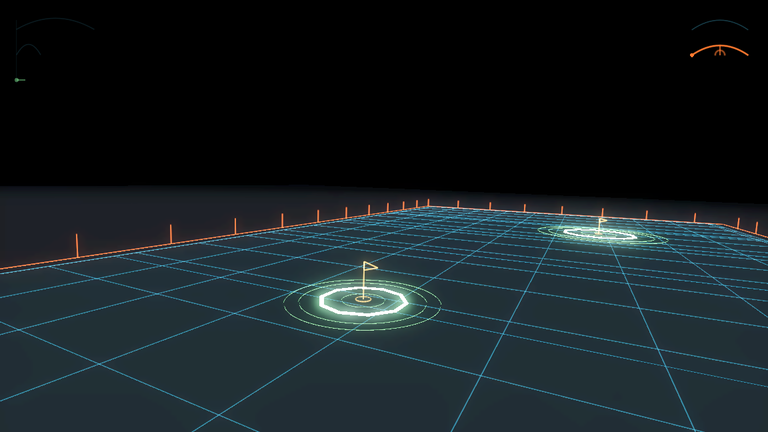
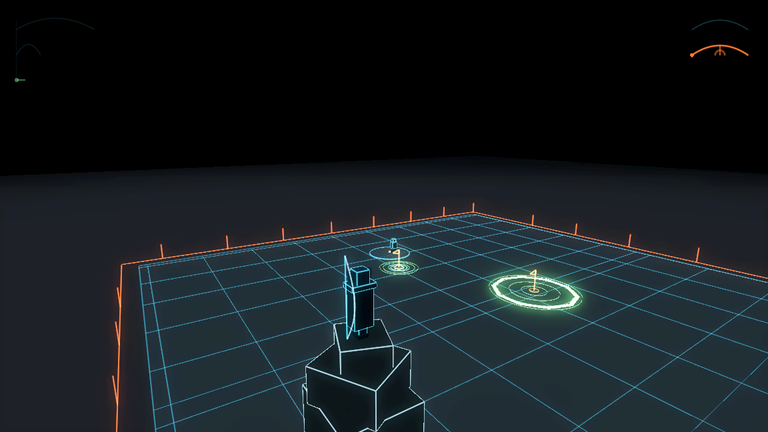
Surface the pictures in the docs, and hold the camera still for them
A gallery on the walkthrough's index, generated from the registry; the
first frame on the README; and a check that every picture a document
embeds is one the registry names, seen failing before it was trusted.
Regenerating twice took the menu pictures from two different places --
the range's camera eases toward its framing every frame -- so a recording
now stops the range's frames and steps one by hand until the ease clamps.
Captions say what is in frame.

diff --git a/walkthrough/09-the-range.md b/walkthrough/09-the-range.md
@@ -22,65 +22,65 @@ exactly that shape.
 - [Changing club is announced once](../tests/holes/test_practice_range.gd#L93)
 - [A club index out of range is clamped rather than crashing](../tests/holes/test_practice_range.gd#L107)
 - [The range opens with the club its first pin wants](../tests/holes/test_practice_range.gd#L115)
-- [Everything the range asks for is inside the boundary](../tests/holes/test_practice_range.gd#L123)
-- [A full driver stays on the range](../tests/holes/test_practice_range.gd#L143)
-- [The lie detector agrees with the range it is built from](../tests/holes/test_practice_range.gd#L158)
-- [The archer watches the range when it is defended](../tests/holes/test_practice_range.gd#L168)
-- [It can be played without one](../tests/holes/test_practice_range.gd#L176)
-- [The camera is placed before anything can look through it](../tests/holes/test_practice_range.gd#L180)
-- [A defended range is a different range](../tests/holes/test_practice_range.gd#L190)
-- [The camera does not whip round when the arrow reverses the ball](../tests/holes/test_practice_range.gd#L211)
-- [The camera turns rather than cuts when the ball changes line](../tests/holes/test_practice_range.gd#L232)
-- [A defender is blended into frame and not cut to](../tests/holes/test_practice_range.gd#L247)
-- [The defender framing is capped however far away it is](../tests/holes/test_practice_range.gd#L268)
-- [The first run has exactly one defender and it is on the rock](../tests/holes/test_practice_range.gd#L309)
-- [The contender can be stood up and taken away](../tests/holes/test_practice_range.gd#L324)
-- [The first run defends with the archer on the rock](../tests/holes/test_practice_range.gd#L337)
-- [Taking the bow leaves the attract screen](../tests/holes/test_practice_range.gd#L351)
-- [A range told to open on defence does so](../tests/holes/test_practice_range.gd#L364)
-- [A range left to its default opens as the golfer](../tests/holes/test_practice_range.gd#L378)
-- [The contender is held in preference when there is one](../tests/holes/test_practice_range.gd#L387)
-- [A range with no defenders offers no side to switch to](../tests/holes/test_practice_range.gd#L394)
-- [A held guard stops guarding by itself](../tests/holes/test_practice_range.gd#L403)
-- [The contender stands at twice the distance to the pin](../tests/holes/test_practice_range.gd#L419)
-- [A close putt is the players to lose](../tests/holes/test_practice_range.gd#L435)
-- [The contender never stands outside the fence](../tests/holes/test_practice_range.gd#L452)
-- [The contender cannot touch a putt](../tests/holes/test_practice_range.gd#L468)
-- [The ball is held for the backswing](../tests/holes/test_practice_range.gd#L480)
-- [The defence is the same gesture as the stroke](../tests/holes/test_practice_range.gd#L498)
-- [Letting go looses an arrow that has to travel](../tests/holes/test_practice_range.gd#L515)
-- [One arrow per stroke](../tests/holes/test_practice_range.gd#L532)
-- [An arrow that hits nothing is simply gone](../tests/holes/test_practice_range.gd#L542)
-- [The camera stands behind the archer when defending](../tests/holes/test_practice_range.gd#L556)
-- [A hand played defender is never told it was unlucky](../tests/holes/test_practice_range.gd#L577)
-- [Holding the archer stops it playing itself](../tests/holes/test_practice_range.gd#L592)
-- [Switching sides changes what the drag means](../tests/holes/test_practice_range.gd#L605)
-- [A good lead actually stops the ball](../tests/holes/test_practice_range.gd#L678)
-- [Aiming at where the ball is misses it](../tests/holes/test_practice_range.gd#L695)
-- [A harder draw needs less lead](../tests/holes/test_practice_range.gd#L712)
-- [The pins come up in the order of pi in ternary](../tests/holes/test_practice_range.gd#L746)
-- [Every digit is a pin](../tests/holes/test_practice_range.gd#L761)
-- [The range never ends](../tests/holes/test_practice_range.gd#L772)
-- [A made pin is the next line of play](../tests/holes/test_practice_range.gd#L797)
-- [An idle player gets the tour](../tests/holes/test_practice_range.gd#L818)
-- [The tour keeps moving while the player is idle](../tests/holes/test_practice_range.gd#L846)
-- [The tour never jumps](../tests/holes/test_practice_range.gd#L856)
-- [The tour turns from the view it leaves](../tests/holes/test_practice_range.gd#L893)
-- [A player holding the camera is never idle](../tests/holes/test_practice_range.gd#L905)
-- [A new pin resets the idle clock as a touch would not](../tests/holes/test_practice_range.gd#L917)
-- [Reaching for a club is a touch](../tests/holes/test_practice_range.gd#L929)
-- [The defend view is seven degrees right and pulled back](../tests/holes/test_practice_range.gd#L939)
-- [The orbit swings around the player and not the line](../tests/holes/test_practice_range.gd#L960)
-- [A round the game played alone is not written](../tests/holes/test_practice_range.gd#L984)
-- [A round is a file of its own strokes and the list starts again](../tests/holes/test_practice_range.gd#L999)
+- [Everything the range asks for is inside the boundary](../tests/holes/test_practice_range.gd#L124)
+- [A full driver stays on the range](../tests/holes/test_practice_range.gd#L144)
+- [The lie detector agrees with the range it is built from](../tests/holes/test_practice_range.gd#L159)
+- [The archer watches the range when it is defended](../tests/holes/test_practice_range.gd#L169)
+- [It can be played without one](../tests/holes/test_practice_range.gd#L177)
+- [The camera is placed before anything can look through it](../tests/holes/test_practice_range.gd#L181)
+- [A defended range is a different range](../tests/holes/test_practice_range.gd#L191)
+- [The camera does not whip round when the arrow reverses the ball](../tests/holes/test_practice_range.gd#L212)
+- [The camera turns rather than cuts when the ball changes line](../tests/holes/test_practice_range.gd#L233)
+- [A defender is blended into frame and not cut to](../tests/holes/test_practice_range.gd#L248)
+- [The defender framing is capped however far away it is](../tests/holes/test_practice_range.gd#L269)
+- [The first run has exactly one defender and it is on the rock](../tests/holes/test_practice_range.gd#L310)
+- [The contender can be stood up and taken away](../tests/holes/test_practice_range.gd#L325)
+- [The first run defends with the archer on the rock](../tests/holes/test_practice_range.gd#L338)
+- [Taking the bow leaves the attract screen](../tests/holes/test_practice_range.gd#L352)
+- [A range told to open on defence does so](../tests/holes/test_practice_range.gd#L365)
+- [A range left to its default opens as the golfer](../tests/holes/test_practice_range.gd#L379)
+- [The contender is held in preference when there is one](../tests/holes/test_practice_range.gd#L388)
+- [A range with no defenders offers no side to switch to](../tests/holes/test_practice_range.gd#L395)
+- [A held guard stops guarding by itself](../tests/holes/test_practice_range.gd#L404)
+- [The contender stands at twice the distance to the pin](../tests/holes/test_practice_range.gd#L420)
+- [A close putt is the players to lose](../tests/holes/test_practice_range.gd#L436)
+- [The contender never stands outside the fence](../tests/holes/test_practice_range.gd#L453)
+- [The contender cannot touch a putt](../tests/holes/test_practice_range.gd#L469)
+- [The ball is held for the backswing](../tests/holes/test_practice_range.gd#L481)
+- [The defence is the same gesture as the stroke](../tests/holes/test_practice_range.gd#L499)
+- [Letting go looses an arrow that has to travel](../tests/holes/test_practice_range.gd#L516)
+- [One arrow per stroke](../tests/holes/test_practice_range.gd#L533)
+- [An arrow that hits nothing is simply gone](../tests/holes/test_practice_range.gd#L543)
+- [The camera stands behind the archer when defending](../tests/holes/test_practice_range.gd#L557)
+- [A hand played defender is never told it was unlucky](../tests/holes/test_practice_range.gd#L578)
+- [Holding the archer stops it playing itself](../tests/holes/test_practice_range.gd#L593)
+- [Switching sides changes what the drag means](../tests/holes/test_practice_range.gd#L606)
+- [A good lead actually stops the ball](../tests/holes/test_practice_range.gd#L679)
+- [Aiming at where the ball is misses it](../tests/holes/test_practice_range.gd#L696)
+- [A harder draw needs less lead](../tests/holes/test_practice_range.gd#L713)
+- [The pins come up in the order of pi in ternary](../tests/holes/test_practice_range.gd#L747)
+- [Every digit is a pin](../tests/holes/test_practice_range.gd#L762)
+- [The range never ends](../tests/holes/test_practice_range.gd#L773)
+- [A made pin is the next line of play](../tests/holes/test_practice_range.gd#L798)
+- [An idle player gets the tour](../tests/holes/test_practice_range.gd#L819)
+- [The tour keeps moving while the player is idle](../tests/holes/test_practice_range.gd#L847)
+- [The tour never jumps](../tests/holes/test_practice_range.gd#L857)
+- [The tour turns from the view it leaves](../tests/holes/test_practice_range.gd#L894)
+- [A player holding the camera is never idle](../tests/holes/test_practice_range.gd#L906)
+- [A new pin resets the idle clock as a touch would not](../tests/holes/test_practice_range.gd#L918)
+- [Reaching for a club is a touch](../tests/holes/test_practice_range.gd#L930)
+- [The defend view is seven degrees right and pulled back](../tests/holes/test_practice_range.gd#L940)
+- [The orbit swings around the player and not the line](../tests/holes/test_practice_range.gd#L961)
+- [A round the game played alone is not written](../tests/holes/test_practice_range.gd#L985)
+- [A round is a file of its own strokes and the list starts again](../tests/holes/test_practice_range.gd#L1000)
 
 ## As recorded
 
 *Taken by the tests above, from the scene they asserted against, on the last run with a display. Recorded, never compared (ADR-031).*
 
-![The range on its own, as the suite instantiates it: three pins, the mat, the archer's rock.](shots/the-range/the-range.png)
+![The range on its own, as the suite instantiates it: the golfer at the ball on the mat, three pins, and the archer on the tower.](shots/the-range/the-range.png)
 
-*The range on its own, as the suite instantiates it: three pins, the mat, the archer's rock.*
+*The range on its own, as the suite instantiates it: the golfer at the ball on the mat, three pins, and the archer on the tower.*
 
 ---
 

diff --git a/walkthrough/17-how-this-walkthrough-is-made.md b/walkthrough/17-how-this-walkthrough-is-made.md
@@ -27,8 +27,9 @@ What it writes, every run, from `registry.gd`:
 What it checks: every suite under `tests/` has a page and every page has a
 suite; every picture the registry declares was recorded and every picture
 recorded is declared; every command the hand-written first page tells a
-reader to run is one this tree has. The page a reader reads is the page that
-ran, and its links are the assertions.
+reader to run is one this tree has; every picture the README or a document
+under `docs/` embeds is one the registry names. The page a reader reads is
+the page that ran, and its links are the assertions.
 
 Nothing here counts anything into a page. A number that changes with every
 run is a diff on every run, and the pages are meant to change only when a
@@ -36,10 +37,11 @@ behaviour does.
 
 ## What the suite asserts
 
-- [Every suite under tests is a page and every page is a suite](../tests/walkthrough/test_walkthrough.gd#L51)
-- [The pages are written from the suites](../tests/walkthrough/test_walkthrough.gd#L76)
-- [Every declared shot is recorded and every recorded shot is declared](../tests/walkthrough/test_walkthrough.gd#L105)
-- [Every command the first page names exists](../tests/walkthrough/test_walkthrough.gd#L130)
+- [Every suite under tests is a page and every page is a suite](../tests/walkthrough/test_walkthrough.gd#L58)
+- [The pages are written from the suites](../tests/walkthrough/test_walkthrough.gd#L83)
+- [Every declared shot is recorded and every recorded shot is declared](../tests/walkthrough/test_walkthrough.gd#L112)
+- [Every command the first page names exists](../tests/walkthrough/test_walkthrough.gd#L137)
+- [Every picture the documents embed is one the suite recorded](../tests/walkthrough/test_walkthrough.gd#L175)
 
 ---
 

diff --git a/walkthrough/README.md b/walkthrough/README.md
@@ -22,6 +22,22 @@ One path through the game, in the order a newcomer meets it. The first page is w
 16. [16 — The harness and the pin](16-the-harness.md)
 17. [17 — How this walkthrough is made](17-how-this-walkthrough-is-made.md)
 
+## As recorded
+
+Every picture the walkthrough has, in page order. Each was taken by a test from the scene it had just asserted against, on the last run with a display; the caption links to the page and the page links to the test.
+
+![The first frame, from behind your archer on the tower: the game's golfer is at the ball down the range, and the switch in the corner hands you the club.](shots/the-first-thing-you-see/opens-on-defence.png)
+
+*The first frame, from behind your archer on the tower: the game's golfer is at the ball down the range, and the switch in the corner hands you the club.* — [02 — The first thing you see](02-the-first-thing-you-see.md)
+
+![The selector, fully faded up in its corner, before any stroke has been taken.](shots/the-club-selector/the-corner.png)
+
+*The selector, fully faded up in its corner, before any stroke has been taken.* — [03 — The club selector](03-the-club-selector.md)
+
+![The range on its own, as the suite instantiates it: the golfer at the ball on the mat, three pins, and the archer on the tower.](shots/the-range/the-range.png)
+
+*The range on its own, as the suite instantiates it: the golfer at the ball on the mat, three pins, and the archer on the tower.* — [09 — The range](09-the-range.md)
+
 ## How it is kept true
 
 - **Regenerating is running the tests.** `tests/walkthrough/test_walkthrough.gd` rewrites every generated page on every run of the suite; a page that changed is a diff in `git status`, and it is committed with the change that caused it.

diff --git a/walkthrough/02-the-first-thing-you-see.md b/walkthrough/02-the-first-thing-you-see.md
@@ -17,17 +17,17 @@ menu and not the range.
 ## What the suite asserts
 
 - [The first run opens on defence](../tests/ui/test_first_run.gd#L24)
-- [The first run is not waiting for a golfer who is the game](../tests/ui/test_first_run.gd#L40)
-- [The side switch agrees with the range from the first frame](../tests/ui/test_first_run.gd#L48)
-- [The ghost has nothing to show a defender](../tests/ui/test_first_run.gd#L56)
+- [The first run is not waiting for a golfer who is the game](../tests/ui/test_first_run.gd#L41)
+- [The side switch agrees with the range from the first frame](../tests/ui/test_first_run.gd#L49)
+- [The ghost has nothing to show a defender](../tests/ui/test_first_run.gd#L57)
 
 ## As recorded
 
 *Taken by the tests above, from the scene they asserted against, on the last run with a display. Recorded, never compared (ADR-031).*
 
-![The first frame. The game's golfer is at the ball; the bow is yours; the switch in the corner hands you the club.](shots/the-first-thing-you-see/opens-on-defence.png)
+![The first frame, from behind your archer on the tower: the game's golfer is at the ball down the range, and the switch in the corner hands you the club.](shots/the-first-thing-you-see/opens-on-defence.png)
 
-*The first frame. The game's golfer is at the ball; the bow is yours; the switch in the corner hands you the club.*
+*The first frame, from behind your archer on the tower: the game's golfer is at the ball down the range, and the switch in the corner hands you the club.*
 
 ---
 

diff --git a/docs/HANDOFF.md b/docs/HANDOFF.md
@@ -242,6 +242,16 @@ Windows and macOS legs had. **Also found:** gdUnit4 minimises its window on star
 (`WINDOW_MODE_MINIMIZED`) and Windows keeps rendering a minimised window, so the pictures are real; under
 xvfb there is no such question.
 
+**Surfaced, and held still.** The index now carries a gallery of every picture, generated from the
+registry; the README embeds the first frame; and a fifth check asserts every picture the README, the
+first page or anything under `docs/` embeds is one the registry names -- seen failing on a made-up
+name before it was trusted. Regenerating twice showed the two menu pictures taken from two different
+places: the range's camera eases toward its framing every frame, so a read on frame N is mid-blend.
+`Walkthrough.hold_still(range)` stops the range's real frames, puts the game golfer's clock back, and
+steps one frame by hand long enough for the ease to clamp; the selector picture is now byte-identical
+across runs and the other two differ only by pulsing glow. Captions were rewritten to what is actually
+in frame -- the first run is seen from behind the archer on the tower, with the golfer small and far.
+
 **Not adopted, and said so.** The `governance/qm` submodule and the seed scripts are Lane 0's steps 1–3
 and still pend a push to `quaternionmedia/qm`. And one standard this project does not follow: `qm`'s
 `AGENTS.md` item 6, human-only contributorship -- no `Co-Authored-By:` trailer naming a vendor address,

diff --git a/README.md b/README.md
@@ -57,6 +57,11 @@ test panel is available on first open.
 **New here?** [`walkthrough/`](walkthrough/README.md) is the one path through the game, and every page
 after its first is written by the test suite from itself — the prose is each suite's own header, every
 line is a test's name linking to its assertion, and the pictures were taken by those tests (ADR-031).
+This one is the first frame, as `tests/ui/test_first_run.gd` saw it:
+
+![The first frame, from behind your archer on the tower: the game's golfer at the ball down the range, the switch in the corner](walkthrough/shots/the-first-thing-you-see/opens-on-defence.png)
+
+*Every picture the suite has is on [the walkthrough's index](walkthrough/README.md#as-recorded).*
 
 ### Running the tests
 

diff --git a/walkthrough/03-the-club-selector.md b/walkthrough/03-the-club-selector.md
@@ -25,7 +25,7 @@ to know is to measure it.
 - [Choosing a club reaches the range](../tests/ui/test_club_selector.gd#L101)
 - [The bars are ordered by reach](../tests/ui/test_club_selector.gd#L117)
 - [It appears without waiting for a stroke](../tests/ui/test_club_selector.gd#L127)
-- [The range and the selector agree on what is in hand](../tests/ui/test_club_selector.gd#L148)
+- [The range and the selector agree on what is in hand](../tests/ui/test_club_selector.gd#L149)
 
 ## As recorded
 
